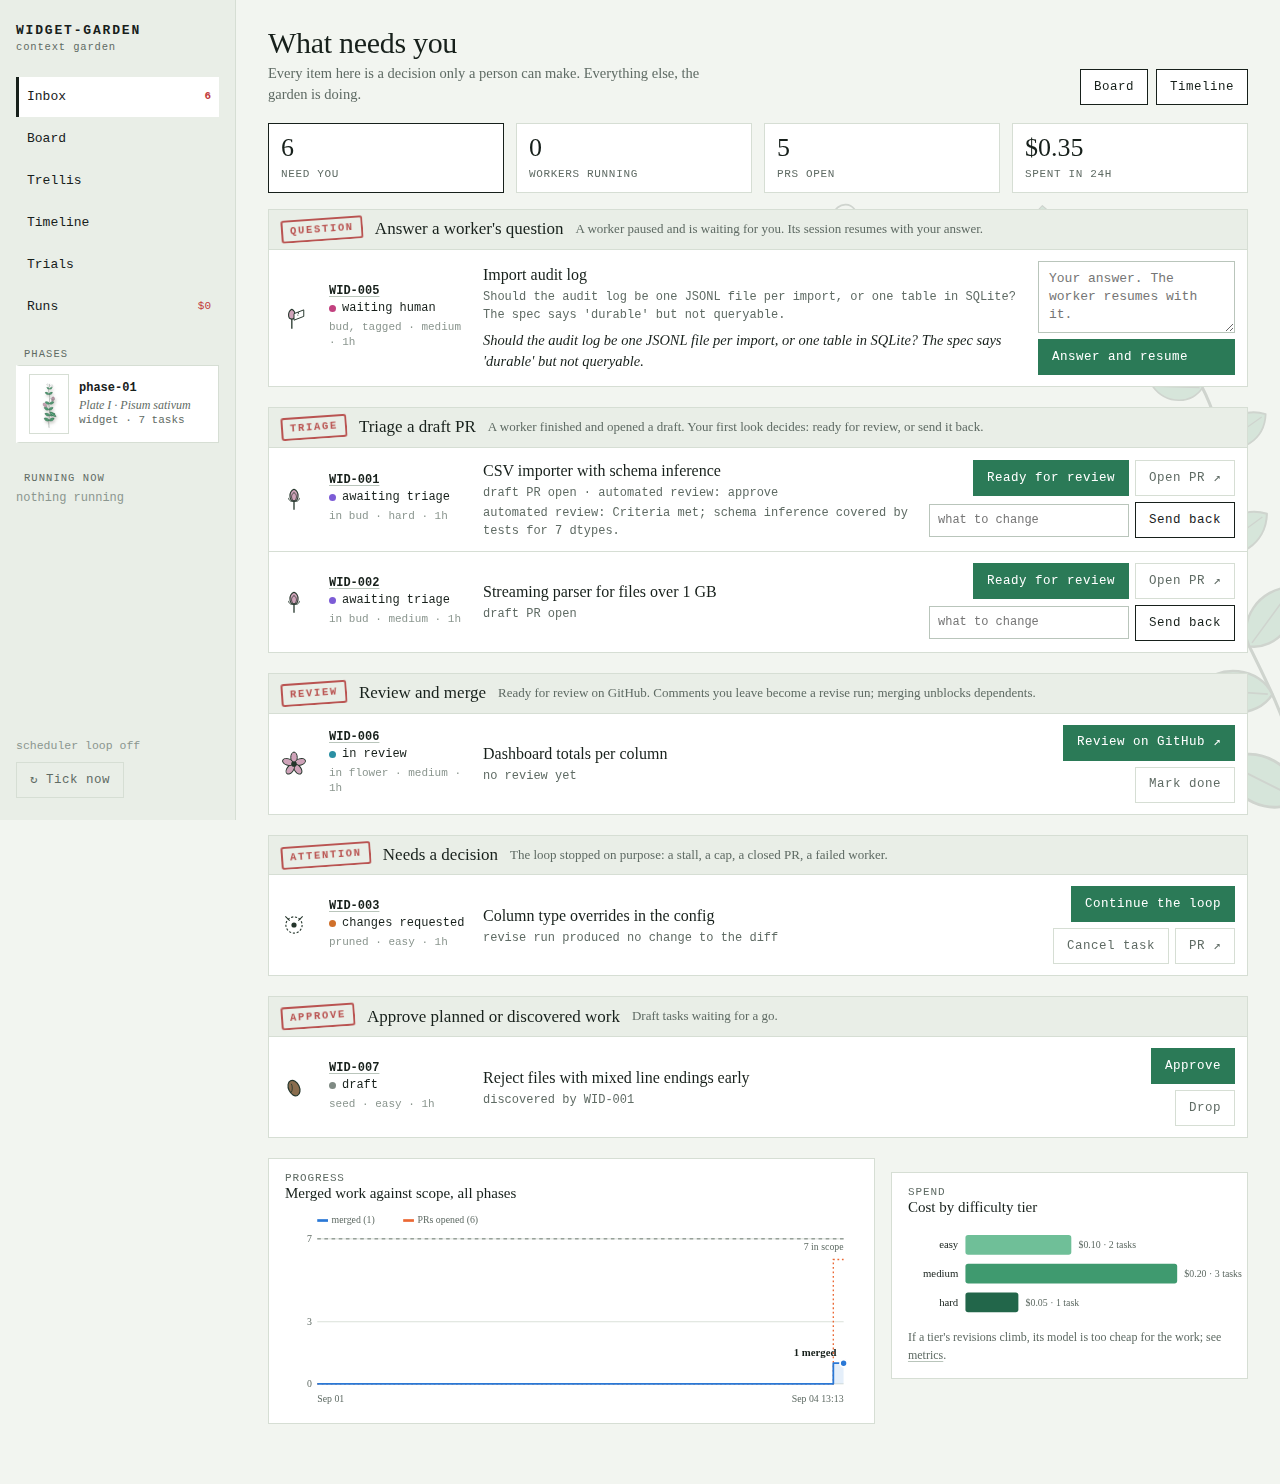
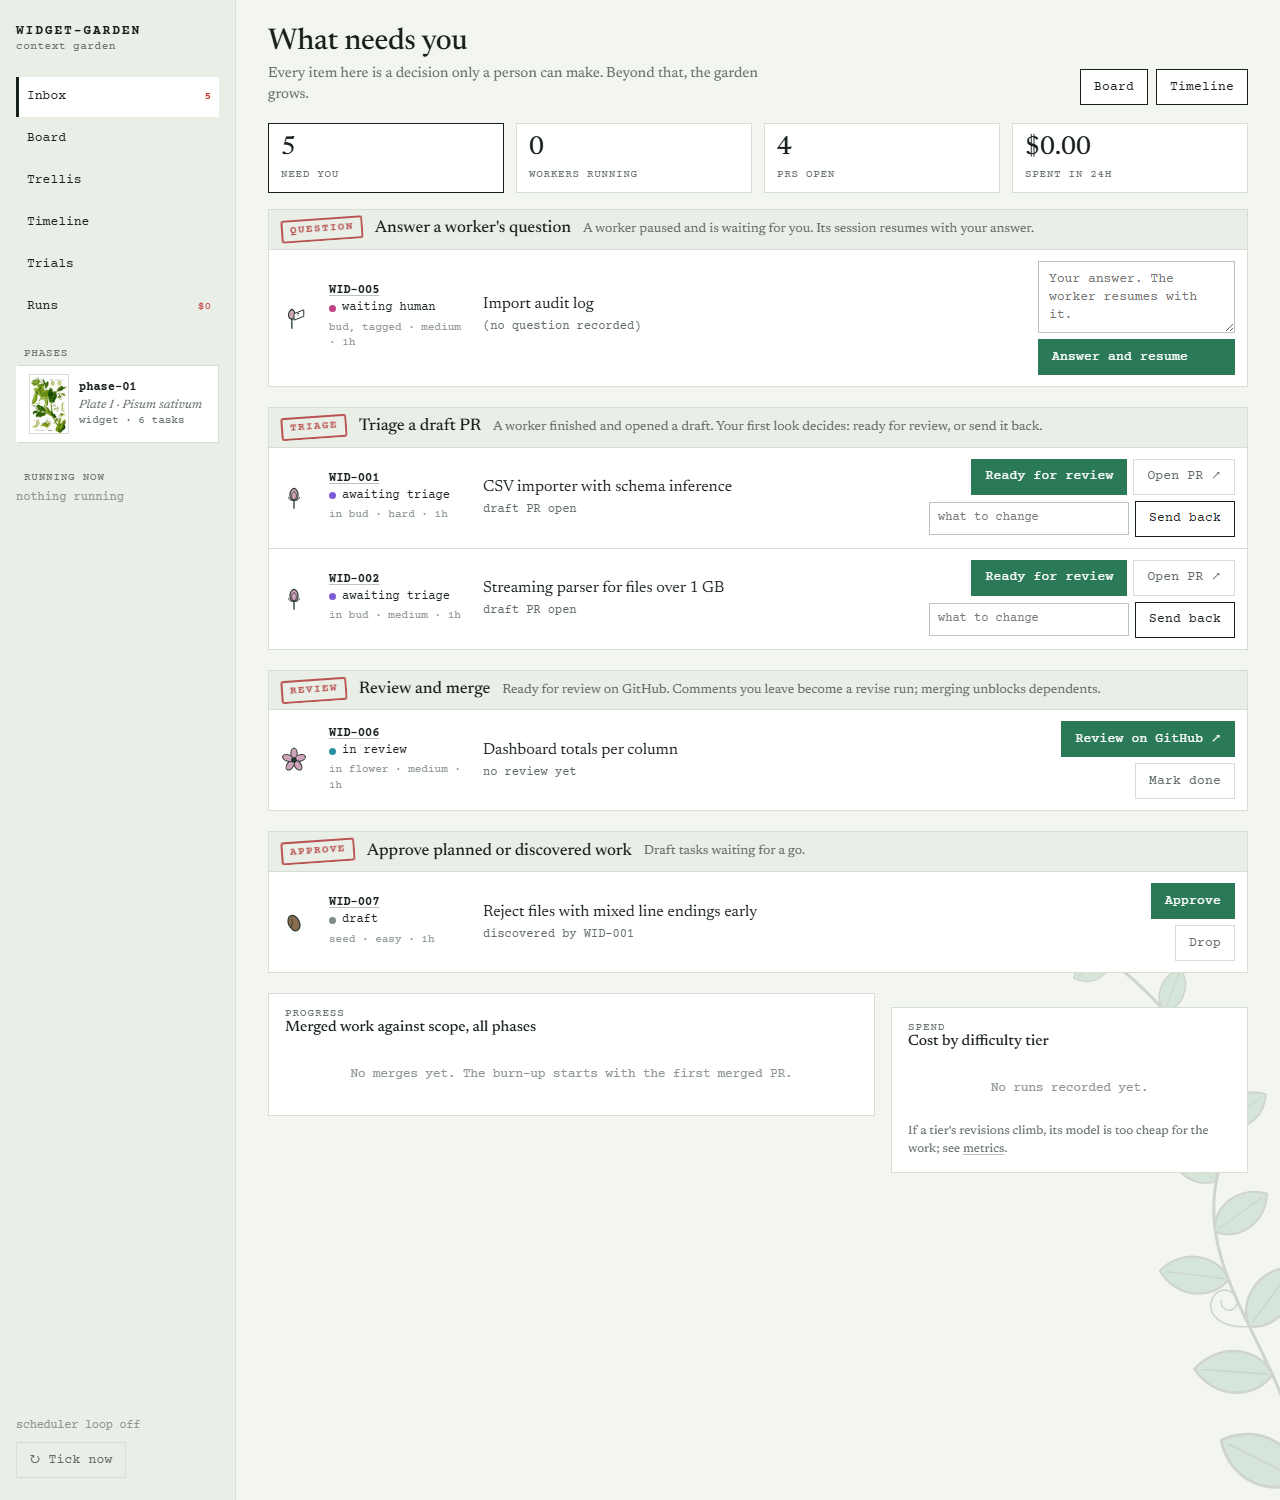
Inbox copy tweak, an updated README hero, and per-tab QA screenshots
"Beyond that, the garden grows" replaces "Everything else, the garden is doing."
in the inbox subhead.

README's inbox screenshot is regenerated against a small standalone demo garden
(never touching this repo's own tasks) so it shows the real Pisum sativum plate
in the phase rail instead of the old drawn icon, alongside the new copy.

docs/qa/2026-09-04-new-plates/ holds full-page screenshots of every nav tab
(inbox, board, trellis, timeline, trials, runs) plus the phase-02-friction
detail page, for review on this PR.

diff --git a/src/garden/web/templates/inbox.html b/src/garden/web/templates/inbox.html
@@ -2,7 +2,7 @@
 {% block title %}Inbox{% endblock %}
 {% block body %}
 <div class="page-head">
-  <div><h1>What needs you</h1><p>Every item here is a decision only a person can make. Everything else, the garden is doing.</p></div>
+  <div><h1>What needs you</h1><p>Every item here is a decision only a person can make. Beyond that, the garden grows.</p></div>
   <div class="tools"><a class="btn" href="/board">Board</a><a class="btn" href="/events">Timeline</a></div>
 </div>
 <div class="kpis">
